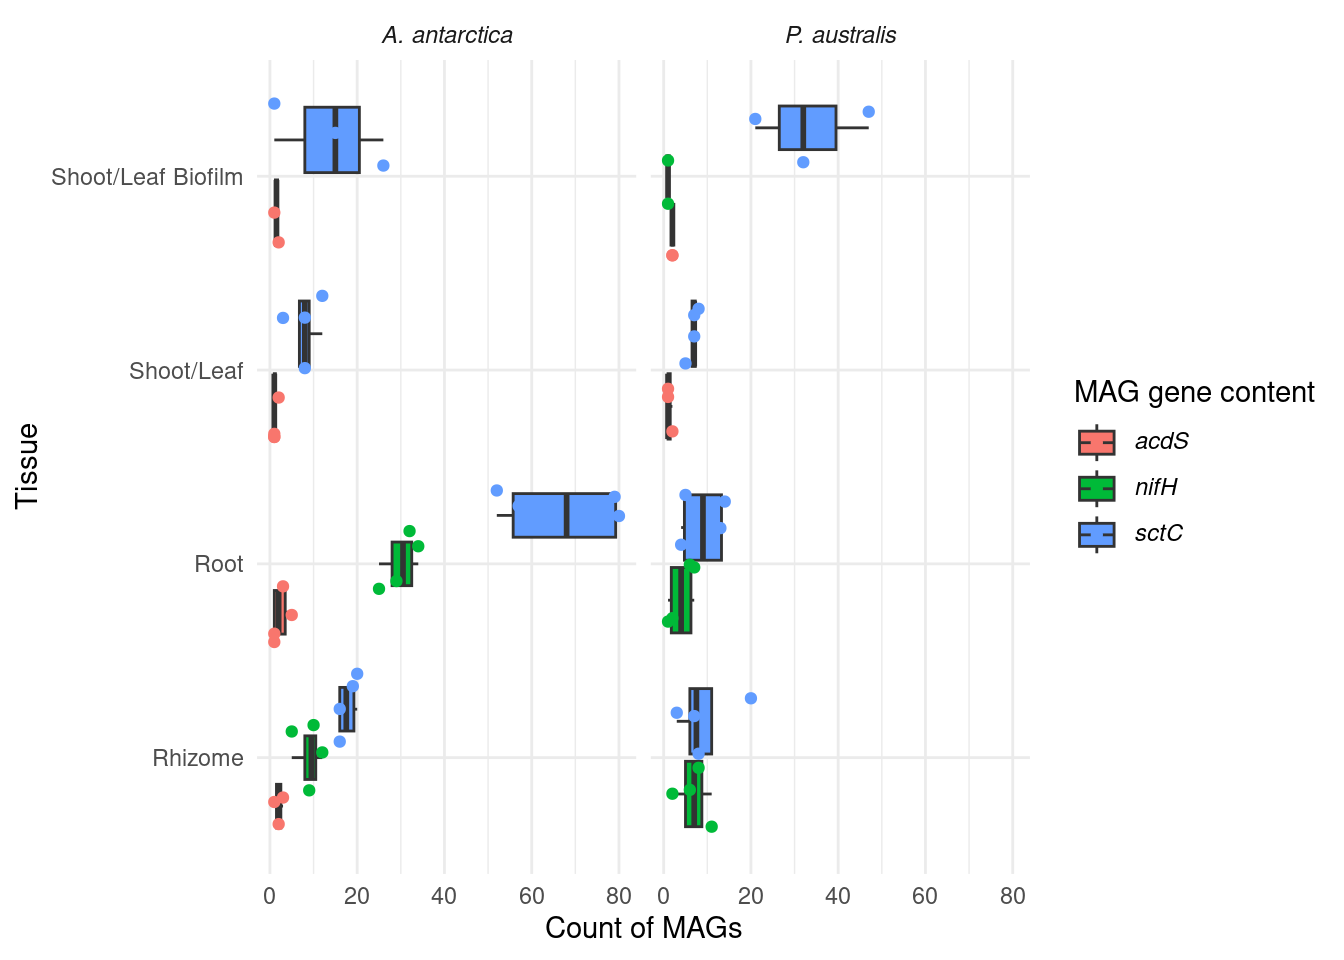
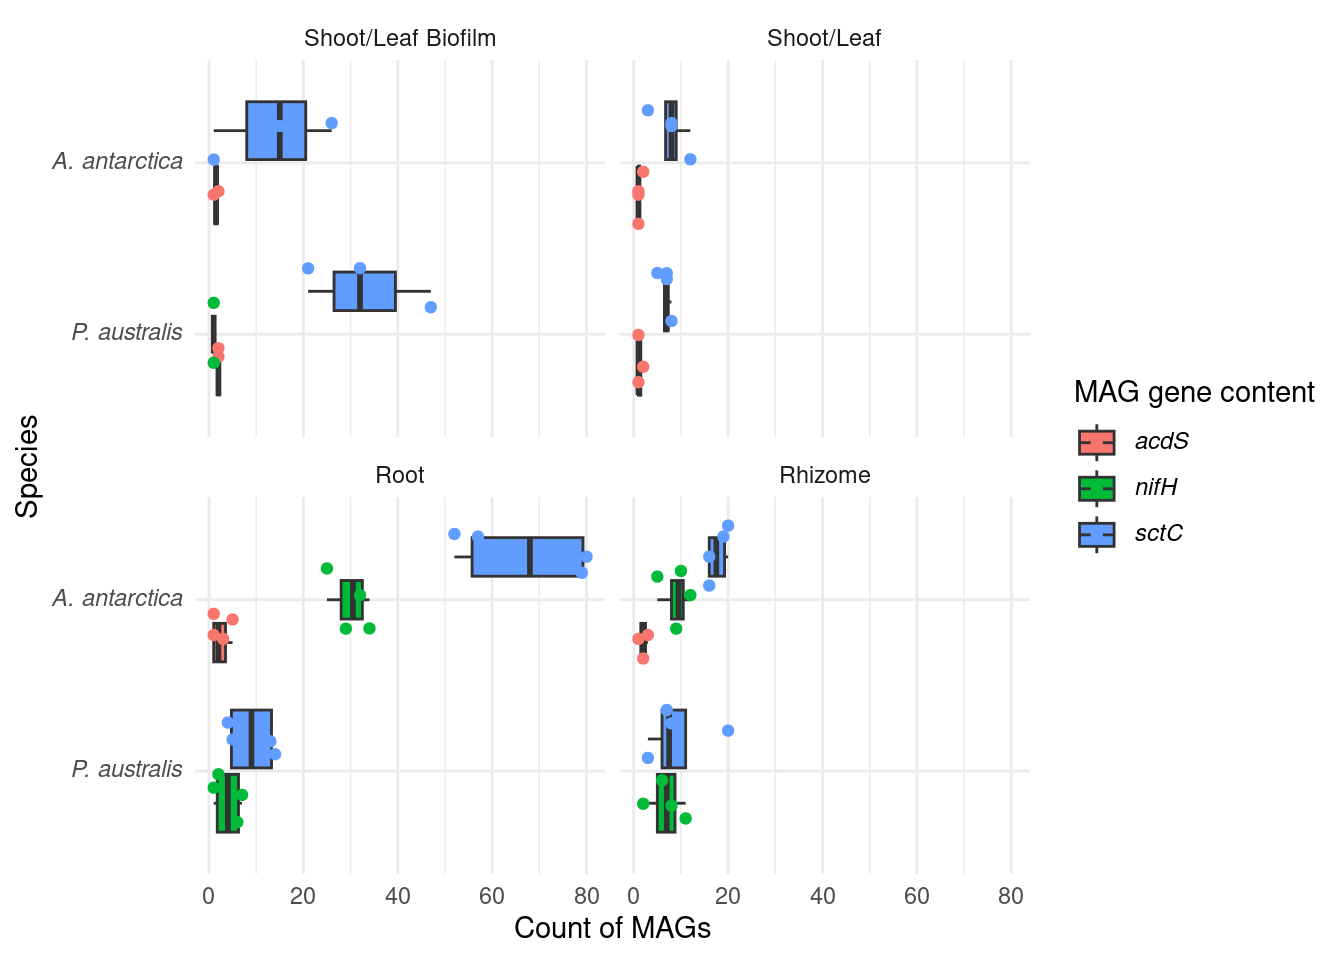
add missing ifles

diff --git a/docs/metagenome.html b/docs/metagenome.html
@@ -524,15 +524,15 @@ project makes it easier to run your code on other machines.</p>
 <div class="panel panel-default">
 <div class="panel-heading">
 <p class="panel-title">
-<a data-toggle="collapse" data-parent="#workflowr-checks" href="#strongRepositoryversionstrongahrefhttpsgithubcomphilippbayerAmphibolisPosidoniaComparisontree1d2eef4c03c33ac1451c53c5fe8b771386f32bfftargetblank1d2eef4a">
+<a data-toggle="collapse" data-parent="#workflowr-checks" href="#strongRepositoryversionstrongahrefhttpsgithubcomphilippbayerAmphibolisPosidoniaComparisontree920282de0009dadba09c0cfbbe9a0e5a626ba70ftargetblank920282da">
 <span class="glyphicon glyphicon-ok text-success"
 aria-hidden="true"></span> <strong>Repository version:</strong>
-<a href="https://github.com/philippbayer/Amphibolis_Posidonia_Comparison/tree/1d2eef4c03c33ac1451c53c5fe8b771386f32bff" target="_blank">1d2eef4</a>
+<a href="https://github.com/philippbayer/Amphibolis_Posidonia_Comparison/tree/920282de0009dadba09c0cfbbe9a0e5a626ba70f" target="_blank">920282d</a>
 </a>
 </p>
 </div>
 <div
[2 lines of base64/hex data omitted]
 class="panel-collapse collapse">
 <div class="panel-body">
 <p>
@@ -542,7 +542,7 @@ reproducibility.
 </p>
 <p>
 The results in this page were generated with repository version
-<a href="https://github.com/philippbayer/Amphibolis_Posidonia_Comparison/tree/1d2eef4c03c33ac1451c53c5fe8b771386f32bff" target="_blank">1d2eef4</a>.
+<a href="https://github.com/philippbayer/Amphibolis_Posidonia_Comparison/tree/920282de0009dadba09c0cfbbe9a0e5a626ba70f" target="_blank">920282d</a>.
 See the <em>Past versions</em> tab to see a history of the changes made
 to the R Markdown and HTML files.
 </p>
@@ -608,6 +608,40 @@ Message
 </tr>
 </thead>
 <tbody>
+<tr>
+<td>
+Rmd
+</td>
+<td>
+<a href="https://github.com/philippbayer/Amphibolis_Posidonia_Comparison/blob/52025b5cc176d61a28c2efe66e3677b4ca46bd4e/analysis/metagenome.Rmd" target="_blank">52025b5</a>
+</td>
+<td>
+Philipp Bayer
+</td>
+<td>
+2023-11-21
+</td>
+<td>
+Final figures and changes
+</td>
+</tr>
+<tr>
+<td>
+html
+</td>
+<td>
+<a href="https://rawcdn.githack.com/philippbayer/Amphibolis_Posidonia_Comparison/52025b5cc176d61a28c2efe66e3677b4ca46bd4e/docs/metagenome.html" target="_blank">52025b5</a>
+</td>
+<td>
+Philipp Bayer
+</td>
+<td>
+2023-11-21
+</td>
+<td>
+Final figures and changes
+</td>
+</tr>
 <tr>
 <td>
 html
@@ -3129,16 +3163,53 @@ is that Amphibolis roots contain more of these</p>
   count(gene_class) |&gt; 
   mutate(Sample_species = trunc_str(Sample_species)) |&gt; 
   mutate(Sample_species = paste0(&#39;*&#39;, Sample_species, &#39;*&#39;)) |&gt; 
-  ggplot(aes(x=Tissue, y=n, fill=gene_class)) + 
+  ggplot(aes(x=factor(Sample_species, levels=rev(c(unique(Sample_species)))), y=n, fill=gene_class)) + 
   geom_boxplot(outlier.shape = NA) +
-  facet_wrap(~Sample_species) + 
+  facet_wrap(~factor(Tissue, levels=rev(c(unique(Tissue))))) + 
   geom_point(position = position_jitterdodge(), aes(color=gene_class)) +
   coord_flip() +
   theme_minimal() +
   labs(color=&#39;MAG gene content&#39;, fill=&#39;MAG gene content&#39;) +
-  theme(strip.text.x =  element_markdown(),legend.text = element_markdown()) +
-  ylab(&#39;Count of MAGs&#39;)</code></pre>
+  theme(axis.text.y =  element_markdown(),legend.text = element_markdown()) +
+  ylab(&#39;Count of MAGs&#39;) + xlab(&#39;Species&#39;)</code></pre>
 <p><img src="figure/metagenome.Rmd/unnamed-chunk-31-1.png" width="672" style="display: block; margin: auto;" /></p>
+<p>
+<button type="button" class="btn btn-default btn-xs btn-workflowr btn-workflowr-fig" data-toggle="collapse" data-target="#fig-unnamed-chunk-31-1">
+Past versions of unnamed-chunk-31-1.png
+</button>
+</p>
+<div id="fig-unnamed-chunk-31-1" class="collapse">
+<div class="table-responsive">
+<table class="table table-condensed table-hover">
+<thead>
+<tr>
+<th>
+Version
+</th>
+<th>
+Author
+</th>
+<th>
+Date
+</th>
+</tr>
+</thead>
+<tbody>
+<tr>
+<td>
+<a href="https://github.com/philippbayer/Amphibolis_Posidonia_Comparison/blob/920282de0009dadba09c0cfbbe9a0e5a626ba70f/docs/figure/metagenome.Rmd/unnamed-chunk-31-1.png" target="_blank">920282d</a>
+</td>
+<td>
+Philipp Bayer
+</td>
+<td>
+2023-11-21
+</td>
+</tr>
+</tbody>
+</table>
+</div>
+</div>
 <p>Can we make a simple association test?</p>
 <pre class="r"><code>tmp &lt;- genessplit |&gt; filter(str_detect(gene, &#39;nifH&#39;) | str_detect(gene, &#39;acdS&#39;) | str_detect(gene, &#39;sctC&#39;)) |&gt; 
   mutate(gene_class = case_when(str_detect(gene, &#39;nifH&#39;) ~ &#39;*nifH*&#39;,
